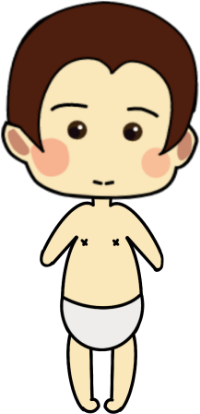
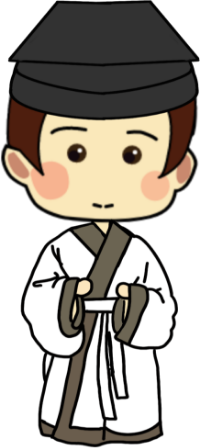
最新

diff --git a/src/pages/main/think.vue b/src/pages/main/think.vue
@@ -1,12 +1,12 @@
 <template>
   <div id="main">
     <div class="button_box">
-      <button id="button1" @click="report" @mouseenter="PlaySound()"  @mouseleave="StopSound()"></button>
-      <button id="button2" @click="back" @mouseenter="PlaySound()"  @mouseleave="StopSound()"></button>
+      <button id="button1" @click="report"></button>
+      <button id="button2" @click="back"></button>
     </div>
     <div :id="house" class="house_position"></div>
     <div id="reportCard" v-if="showCard">
-      <button id="closeBtn" @click="report"  @mouseenter="PlaySound()"  @mouseleave="StopSound()"></button>
+      <button id="closeBtn" @click="report"></button>
       <div id="nickname" class="color">{{user_nickname}}</div>
       <div id="achieve">{{user_grade}}</div>
       <div :id="person" class="person_position"></div>
@@ -21,7 +21,6 @@
           {{element}}
         </div>
       </div>
-       <audio ref="audio" :src="audioUrl"></audio>
     </div>
   </div>
 </template>
@@ -43,13 +42,13 @@ export default {
         '平民',
         '秀才',
         '举人',
-        '贡士',
         '进士',
+        '状元',    
       ],
       personImage_id:[
+        'pingmin',
         'xiucai',
         'jvren',
-        'gongshi',
         'jinshi',
         'zhuangyuan'
       ],
@@ -91,24 +90,29 @@ export default {
               if(this.user_totalscore<=20){
                 this.person=this.personImage_id[0];
                 this.house='house_'+this.personImage_id[0];
+                this.user_grade=this.grade[0];
               }else if(this.user_totalscore<=40){
                 this.person=this.personImage_id[1];
                 this.house='house_'+this.personImage_id[1];
+                this.user_grade=this.grade[1];
               }else if(this.user_totalscore<=60){
                 this.person=this.personImage_id[2];
                 this.house='house_'+this.personImage_id[2];
+                this.user_grade=this.grade[2];
               }else if(this.user_totalscore<=80){
                 this.person=this.personImage_id[3];
                 this.house='house_'+this.personImage_id[3];
+                this.user_grade=this.grade[3];
               }else if(this.user_totalscore<=100){
                 this.person=this.personImage_id[4];
                 this.house='house_'+this.personImage_id[4];
+                this.user_grade=this.grade[4];
               }
               this.user_score[0]=res[0][0].round1;//取各关成绩
               this.user_score[1]=res[0][0].round2;//取各关成绩
               this.user_score[2]=res[0][0].round3;//取各关成绩
 
-              this.user_grade=this.grade[res[3].length+1];//称号判定
+              //this.user_grade=this.grade[res[3].length+1];//称号判定
 
               for(var i in this.user_score){    
                 if(this.user_score[i]=='0'){           //评论语句
@@ -136,13 +140,6 @@ export default {
     report(){
       this.showCard=!this.showCard;
     },
-    PlaySound() {
-      this.$refs.audio.play();
-    },
-    StopSound() {
-      this.$refs.audio.pause();
-      this.$refs.audio.currentTime = 0;
-    }
   },
   
 }
@@ -197,6 +194,10 @@ export default {
   margin-top: 100px;
   height:350px;
 }
+#pingmin{
+  background: url('../../assets/report/pingmin.png') center center no-repeat;
+  background-size: contain;
+}
 #xiucai{
   background: url('../../assets/report/xiucai.png') center center no-repeat;
   background-size: contain;
@@ -205,12 +206,12 @@ export default {
   background: url('../../assets/report/jvren.png') center center no-repeat;
   background-size: contain;
 }
-#gongshi{
-  background: url('../../assets/report/gongshi.png') center center no-repeat;
-  background-size: contain;
-}
 #jinshi{
   background: url('../../assets/report/jinshi.png') center center no-repeat;
+  background-size: contain;
+}
+#zhuangyuan{
+  background: url('../../assets/report/zhuangyuan.png') center center no-repeat;
   background-size: contain;
 }
 
@@ -224,6 +225,12 @@ export default {
   width:1200px;
   height: 1000px;
 }
+
+
+#house_pingmin{
+  background: url('../../assets/report/house_pingmin.png') center center no-repeat;
+  background-size: contain;
+}
 #house_xiucai{
   background: url('../../assets/report/house_xiucai.png') center center no-repeat;
   background-size: contain;
@@ -232,14 +239,15 @@ export default {
   background: url('../../assets/report/house_jvren.png') center center no-repeat;
   background-size: contain;
 }
-#house_gongshi{
-  background: url('../../assets/report/house_gongshi.png') center center no-repeat;
-  background-size: contain;
-}
 #house_jinshi{
   background: url('../../assets/report/house_jinshi.png') center center no-repeat;
   background-size: contain;
 }
+#house_zhuangyuan{
+  background: url('../../assets/report/house_zhuangyuan.png') center center no-repeat;
+  background-size: contain;
+}
+
 #nickname{
   position: absolute;
   left:200px;

diff --git a/src/pages/main/exam/dianExamWu.vue b/src/pages/main/exam/dianExamWu.vue
@@ -44,7 +44,7 @@ export default {
       t:11,
       ans:[],
       ansnum:0,
-      correctans:['c','b','a'],
+      correctans:['c','c','a'],
       correct:0,
       kcflag:0,
       choseflag:[0,0,0],
